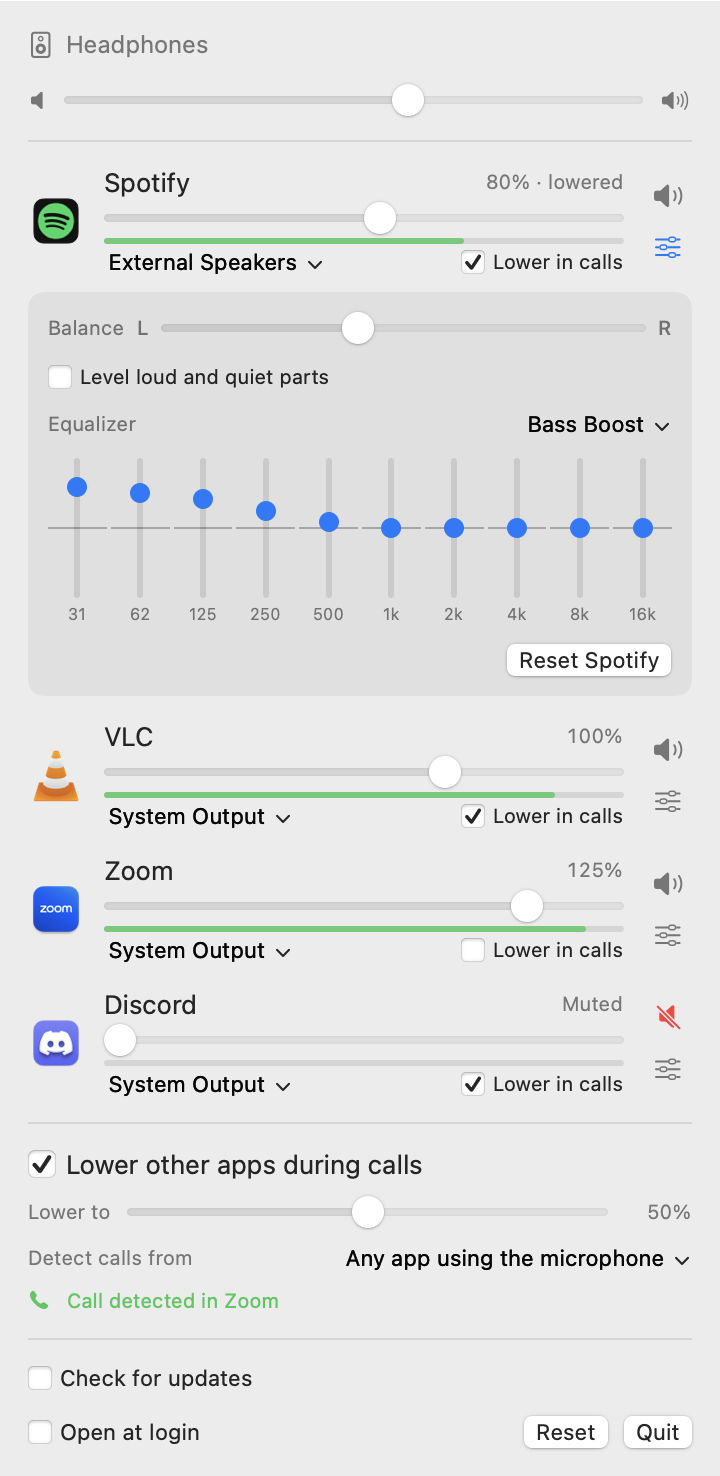
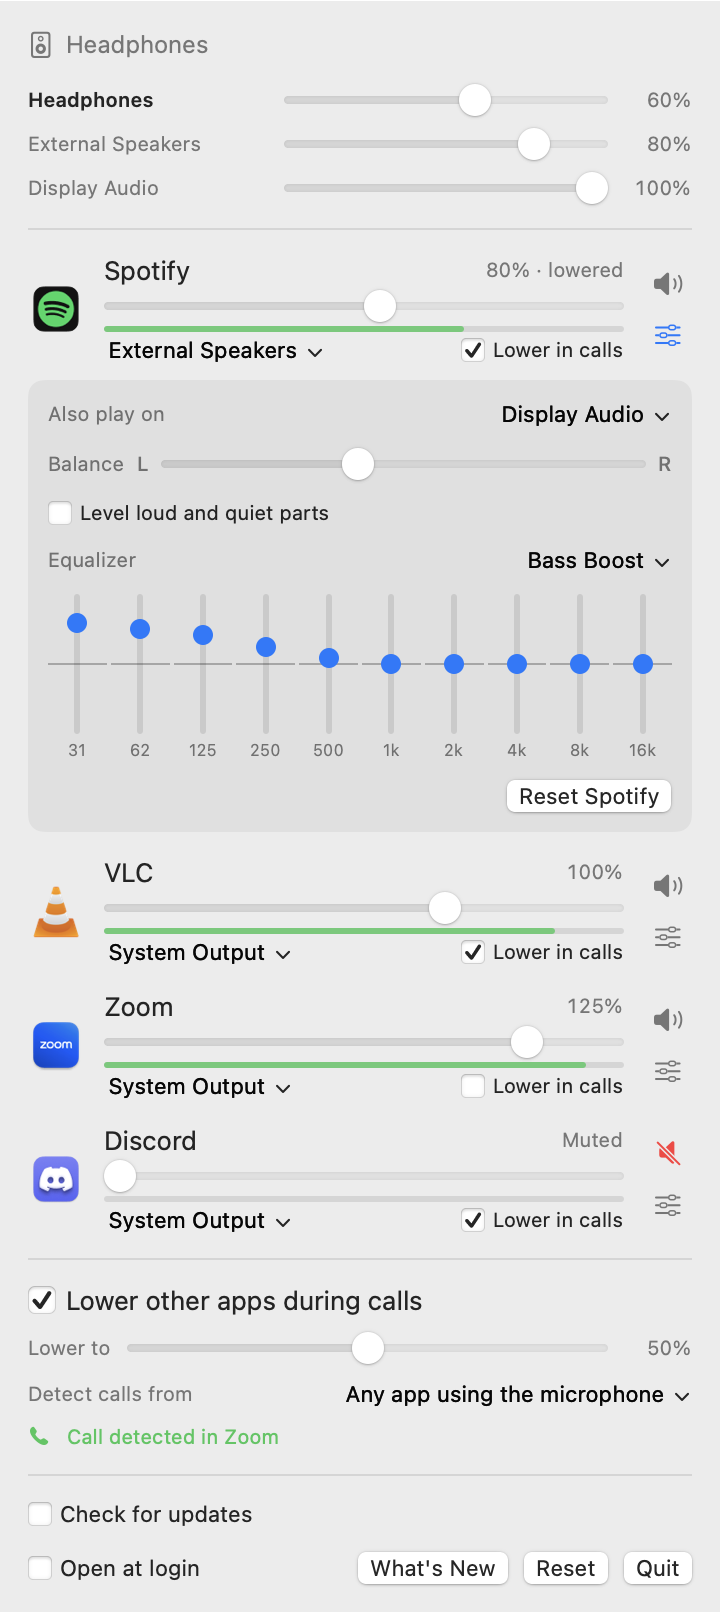
Update the README images for 1.3.0
The demo now also shows the output volumes and a second output, and
images no longer depend on the height of the screen they are made on.

diff --git a/Sources/Volumist/DemoRenderer.swift b/Sources/Volumist/DemoRenderer.swift
@@ -7,7 +7,7 @@ import UniformTypeIdentifiers
 /// for the README. It doesn't touch audio: what it shows is scripted, not a recording.
 enum DemoRenderer {
     private static let fps = 15.0
-    private static let duration = 31.0
+    private static let duration = 43.0
     private static let zoom: CGFloat = 2
     private static let canvas = CGSize(width: 720, height: 700)
     private static var viewport: CGFloat { canvas.height / zoom }
@@ -24,26 +24,32 @@ enum DemoRenderer {
         case ..<13: "A call starts: the others fade down"
         case ..<17: "The call ends: they come back"
         case ..<23: "Even out loud and quiet parts"
-        default: "Shape the sound of each app"
+        case ..<31: "Shape the sound of each app"
+        case ..<36.5: "Set a volume for each output"
+        default: "Play an app on two outputs"
         }
     }
 
     /// Where the camera looks, in points from the top of the window.
     private static func focus(at time: Double) -> CGFloat {
         switch time {
-        case ..<8.5: 165
-        case ..<17: 315
+        case ..<8.5: 209
+        case ..<17: 359
+        case ..<31: 368
+        case ..<36.5: 100
         default: 300
         }
     }
 
     /// The pointer's path: time, x, y, in window points.
     private static let pointerPath: [(time: Double, x: CGFloat, y: CGFloat)] = [
-        (0, 300, 60), (1.2, 225, 175), (2, 225, 175), (4, 156, 175), (5, 156, 175),
-        (6.3, 334, 97), (8, 334, 97), (9.5, 200, 330), (15.5, 200, 330),
-        (17.8, 334, 190), (19.5, 334, 190), (20.8, 38, 255), (23, 38, 255),
-        (24.3, 312, 279), (25.3, 312, 279), (26, 270, 331), (26.8, 270, 331), (28, 201, 220), (28.5, 201, 220),
-        (29.5, 159, 220), (31, 159, 220),
+        (0, 300, 104), (1.2, 225, 219), (2, 225, 219), (4, 156, 219), (5, 156, 219),
+        (6.3, 334, 141), (8, 334, 141), (9.5, 200, 374), (15.5, 200, 374),
+        (17.8, 334, 234), (19.5, 334, 234), (20.8, 38, 323), (23, 38, 323),
+        (24.3, 312, 347), (25.3, 312, 347), (26, 270, 399), (26.8, 270, 399), (28, 201, 298), (28.5, 201, 298),
+        (29.5, 159, 298), (31, 159, 298),
+        (32.3, 267, 72), (33, 267, 72), (35, 199, 72), (36.5, 199, 72),
+        (38, 315, 273), (38.7, 315, 273), (39.3, 265, 350), (39.7, 265, 350), (43, 265, 350),
     ]
 
     private static func pointer(at time: Double) -> CGPoint {
@@ -51,16 +57,25 @@ enum DemoRenderer {
             let t = eased(time, from: start.time, to: end.time)
             return CGPoint(x: start.x + (end.x - start.x) * t, y: start.y + (end.y - start.y) * t)
         }
-        return CGPoint(x: 159, y: 220)
+        return CGPoint(x: 265, y: 350)
     }
 
-    private static let clicks = [6.9, 18.5, 21.6, 25, 26.4]
+    private static let clicks = [6.9, 18.5, 21.6, 25, 26.4, 38.7, 39.7]
 
-    // The equalizer's dropdown. A real menu can't be captured here, so it is drawn to look the same.
-    private static let menuOpens = 25.0
-    private static let menuCloses = 26.4
-    private static let menuFrame = CGRect(x: 198, y: 292, width: 150, height: 144)
+    // A real menu can't be captured here, so the dropdowns are drawn to look the same.
+    private struct Menu {
+        let opens: Double
+        let closes: Double
+        let frame: CGRect
+        let titles: [String]
+    }
     private static let menuRowHeight: CGFloat = 22
+    private static let menus = [
+        Menu(opens: 25, closes: 26.4, frame: CGRect(x: 198, y: 360, width: 150, height: 144),
+             titles: Equalizer.presets.map(\.name)),
+        Menu(opens: 38.7, closes: 39.7, frame: CGRect(x: 198, y: 289, width: 150, height: 78),
+             titles: ["No other output", "Display Audio", "Headphones"]),
+    ]
 
     private static func icon(_ path: String) -> NSImage {
         let file = Bundle(path: path)?.object(forInfoDictionaryKey: "CFBundleIconFile") as? String
@@ -77,13 +92,15 @@ enum DemoRenderer {
                      "VLC": icon("/Applications/VLC.app"), "Zoom": icon("/Applications/zoom.us.app")]
         func app(_ name: String, _ volume: Double, playing: Bool, muted: Bool = false, output: String? = nil,
                  lowered: Bool = false, balance: Double = 0, equalizer: [Double] = Equalizer.flat,
-                 leveling: Bool = false, neverLower: Bool = false) -> AudioApp {
+                 leveling: Bool = false, neverLower: Bool = false, second: String? = nil) -> AudioApp {
             AudioApp(id: name, name: name, icon: icons[name], isPlaying: playing, volume: volume, isMuted: muted,
-                     outputUID: output, outputName: output, outputMissing: false, neverLower: neverLower, isLowered: lowered,
+                     outputUID: output, outputName: output, outputMissing: false,
+                     secondOutputUID: second, secondOutputName: second, neverLower: neverLower, isLowered: lowered,
                      balance: balance, equalizer: equalizer, levelsVolume: leveling)
         }
 
         let engine = AudioEngine(preview: [], output: "Headphones", call: nil, expanded: nil, previewLevels: [:])
+        engine.showsWholeList = true
         let view = NSHostingView(rootView: MixerView(engine: engine)
             .background(Color(nsColor: .windowBackgroundColor)))
         view.appearance = NSAppearance(named: .aqua)
@@ -110,7 +127,7 @@ enum DemoRenderer {
             camera += (focus(at: time) - camera) * 0.07
 
             let volume = 1 - 0.45 * eased(time, from: 2, to: 4)
-            let equalizer = time >= menuCloses ? Equalizer.presets[1].gains : Equalizer.flat
+            let equalizer = time >= menus[0].closes ? Equalizer.presets[1].gains : Equalizer.flat
             let balance = -0.35 * eased(time, from: 28.5, to: 29.5)
             let leveling = time >= 21.6
             let musicMuted = time >= 6.9
@@ -123,10 +140,11 @@ enum DemoRenderer {
                 app("Music", 0.8, playing: !musicMuted, muted: musicMuted, lowered: false),
                 app("Spotify", volume, playing: true,
                     output: "External Speakers", lowered: inCall, balance: balance,
-                    equalizer: equalizer, leveling: leveling),
+                    equalizer: equalizer, leveling: leveling, second: time >= menus[1].closes ? "Headphones" : nil),
                 app("VLC", 0.6, playing: true, lowered: inCall),
                 app("Zoom", 1, playing: inCall, neverLower: true),
             ], call: inCall ? "Zoom" : nil, expanded: time >= 18.5 ? "Spotify" : nil)
+            engine.setPreview(outputVolume: 0.8 - 0.45 * eased(time, from: 33, to: 35), for: "External Speakers")
             engine.levels.levels = ["Music": Float(podcast), "Spotify": Float(spotifyLevel),
                                     "VLC": Float(video), "Zoom": Float(voice)]
 
@@ -136,7 +154,7 @@ enum DemoRenderer {
             guard let bitmap = view.bitmapImageRepForCachingDisplay(in: view.bounds),
                   let image = compose(panel: bitmap, view: view, camera: camera, time: time) else { exit(1) }
             CGImageDestinationAddImage(destination, image, frameProperties)
-            if let keyFrames, frame % 75 == 40 || frame == 385 || frame == 392 {
+            if let keyFrames, frame % 75 == 40 || frame == 385 || frame == 392 || frame == 435 || frame == 575 || frame == 590 || frame == 610 {
                 let data = NSBitmapImageRep(cgImage: image).representation(using: .png, properties: [:])
                 try? data?.write(to: URL(fileURLWithPath: "\(keyFrames)/frame-\(frame).png"))
             }
@@ -166,7 +184,8 @@ enum DemoRenderer {
         context.draw(panel, in: CGRect(x: 0, y: canvas.height - (size.height - top) * zoom,
                                        width: size.width * zoom, height: size.height * zoom))
 
-        if time >= menuOpens && time < menuCloses {
+        if let menu = menus.first(where: { time >= $0.opens && time < $0.closes }) {
+            let menuFrame = menu.frame
             let origin = point(menuFrame.minX, menuFrame.maxY)
             let rect = NSRect(x: origin.x, y: origin.y, width: menuFrame.width * zoom, height: menuFrame.height * zoom)
             let shadow = NSShadow()
@@ -180,7 +199,7 @@ enum DemoRenderer {
             NSGraphicsContext.restoreGraphicsState()
 
             let hovered = pointer(at: time)
-            for (index, preset) in Equalizer.presets.enumerated() {
+            for (index, title) in menu.titles.enumerated() {
                 let rowTop = menuFrame.minY + 6 + CGFloat(index) * menuRowHeight
                 let isHovered = hovered.y >= rowTop && hovered.y < rowTop + menuRowHeight
                     && hovered.x >= menuFrame.minX && hovered.x < menuFrame.maxX
@@ -193,7 +212,7 @@ enum DemoRenderer {
                 let attributes: [NSAttributedString.Key: Any] = [
                     .font: NSFont.systemFont(ofSize: 25), .foregroundColor: isHovered ? NSColor.white : NSColor.black]
                 if index == 0 { ("✓" as NSString).draw(at: NSPoint(x: bottom.x + 10, y: bottom.y + 7), withAttributes: attributes) }
-                (preset.name as NSString).draw(at: NSPoint(x: bottom.x + 42, y: bottom.y + 7), withAttributes: attributes)
+                (title as NSString).draw(at: NSPoint(x: bottom.x + 42, y: bottom.y + 7), withAttributes: attributes)
             }
         }
 

diff --git a/Sources/Volumist/SelfTest.swift b/Sources/Volumist/SelfTest.swift
@@ -252,22 +252,24 @@ enum SelfTest {
         _ = NSApplication.shared
         func row(_ name: String, _ path: String, _ volume: Double, muted: Bool = false, output: String? = nil,
                  lowered: Bool = false, neverLower: Bool = false, equalizer: [Double] = Equalizer.flat,
-                 balance: Double = 0) -> AudioApp {
+                 balance: Double = 0, secondOutput: String? = nil) -> AudioApp {
             // The bundle's own icon: NSWorkspace would return it tinted if the system icon style is.
             let file = Bundle(path: path)?.object(forInfoDictionaryKey: "CFBundleIconFile") as? String
             let icon = file.flatMap { NSImage(contentsOfFile: "\(path)/Contents/Resources/\(($0 as NSString).deletingPathExtension).icns") }
             return AudioApp(id: name, name: name, icon: icon ?? NSWorkspace.shared.icon(forFile: path), isPlaying: true,
                      volume: volume, isMuted: muted, outputUID: output, outputName: output, outputMissing: false,
+                            secondOutputUID: secondOutput, secondOutputName: secondOutput,
                             neverLower: neverLower, isLowered: lowered, balance: balance, equalizer: equalizer)
         }
         let engine = AudioEngine(preview: [
             row("Spotify", "/Applications/Spotify.app", 0.8, output: "External Speakers", lowered: true,
-                equalizer: Equalizer.presets[1].gains, balance: -0.2),
+                equalizer: Equalizer.presets[1].gains, balance: -0.2, secondOutput: "Display Audio"),
             row("VLC", "/Applications/VLC.app", 1),
             row("Zoom", "/Applications/zoom.us.app", 1.25, neverLower: true),
             row("Discord", "/Applications/Discord.app", 0.8, muted: true),
         ], output: "Headphones", call: "Zoom", expanded: "Spotify",
            previewLevels: ["Spotify": 0.12, "VLC": 0.4, "Zoom": 0.6])
+        engine.showsWholeList = true
 
         snapshot(MixerView(engine: engine), to: path)
         exit(0)

diff --git a/Sources/Volumist/AudioEngine.swift b/Sources/Volumist/AudioEngine.swift
@@ -121,6 +121,7 @@ final class AudioEngine: ObservableObject {
     @Published private(set) var systemVolume: Double?
     @Published private(set) var outputLevels: [OutputLevel] = []
     @Published var listHeight: CGFloat = 0
+    var showsWholeList = false // for images, which shouldn't depend on this Mac's screen
     @Published var checksForUpdates = false {
         didSet {
             UserDefaults.standard.set(checksForUpdates, forKey: updatesKey)
@@ -221,6 +222,11 @@ final class AudioEngine: ObservableObject {
         })
         levels.levels = previewLevels
         permission = .granted
+    }
+
+    func setPreview(outputVolume volume: Double, for uid: String) {
+        guard isPreview, let index = outputLevels.firstIndex(where: { $0.id == uid }) else { return }
+        outputLevels[index].volume = volume
     }
 
     func setPreview(permission: AudioPermission.State) {

diff --git a/Sources/Volumist/VolumistApp.swift b/Sources/Volumist/VolumistApp.swift
@@ -266,6 +266,7 @@ struct MixerView: View {
     /// The screen minus everything else in the window, which grows with what is showing, and a margin:
     /// on macOS 26 a popover that nearly fills the screen is moved away from the menu bar.
     private var maxListHeight: CGFloat {
+        if engine.showsWholeList { return .infinity }
         var reserved: CGFloat = 290
         reserved += engine.outputLevels.count > 1 ? CGFloat(engine.outputLevels.count) * 22 : 30
         if engine.ducking.isEnabled { reserved += 55 }

diff --git a/README.md b/README.md
@@ -23,7 +23,7 @@
 </p>
 
 <p align="center">
-  <img src="docs/demo.gif" width="480" alt="Animated demo of Volumist: Spotify and VLC lower themselves when a Zoom call starts, return when it ends, and Spotify's balance, leveling and equalizer are adjusted">
+  <img src="docs/demo.gif" width="480" alt="Animated demo of Volumist: Spotify and VLC lower themselves when a Zoom call starts, return when it ends, Spotify's balance, leveling and equalizer are adjusted, an output's volume is changed and Spotify is sent to a second output">
   <br><sub>The real interface, animated with sample data.</sub>
 </p>
 
@@ -95,7 +95,7 @@ open build/Volumist.app
 Click the menu bar icon to see the apps that are playing audio, plus any app you have already adjusted.
 
 <p align="center">
-  <img src="docs/screenshot.png" width="340" alt="Volumist menu bar window with separate volume sliders and output pickers for Spotify, VLC, Zoom and Discord">
+  <img src="docs/screenshot.png" width="340" alt="Volumist menu bar window with a volume for each output, and separate volume sliders and output pickers for Spotify, VLC, Zoom and Discord">
 </p>
 
 | Control | What it does |
